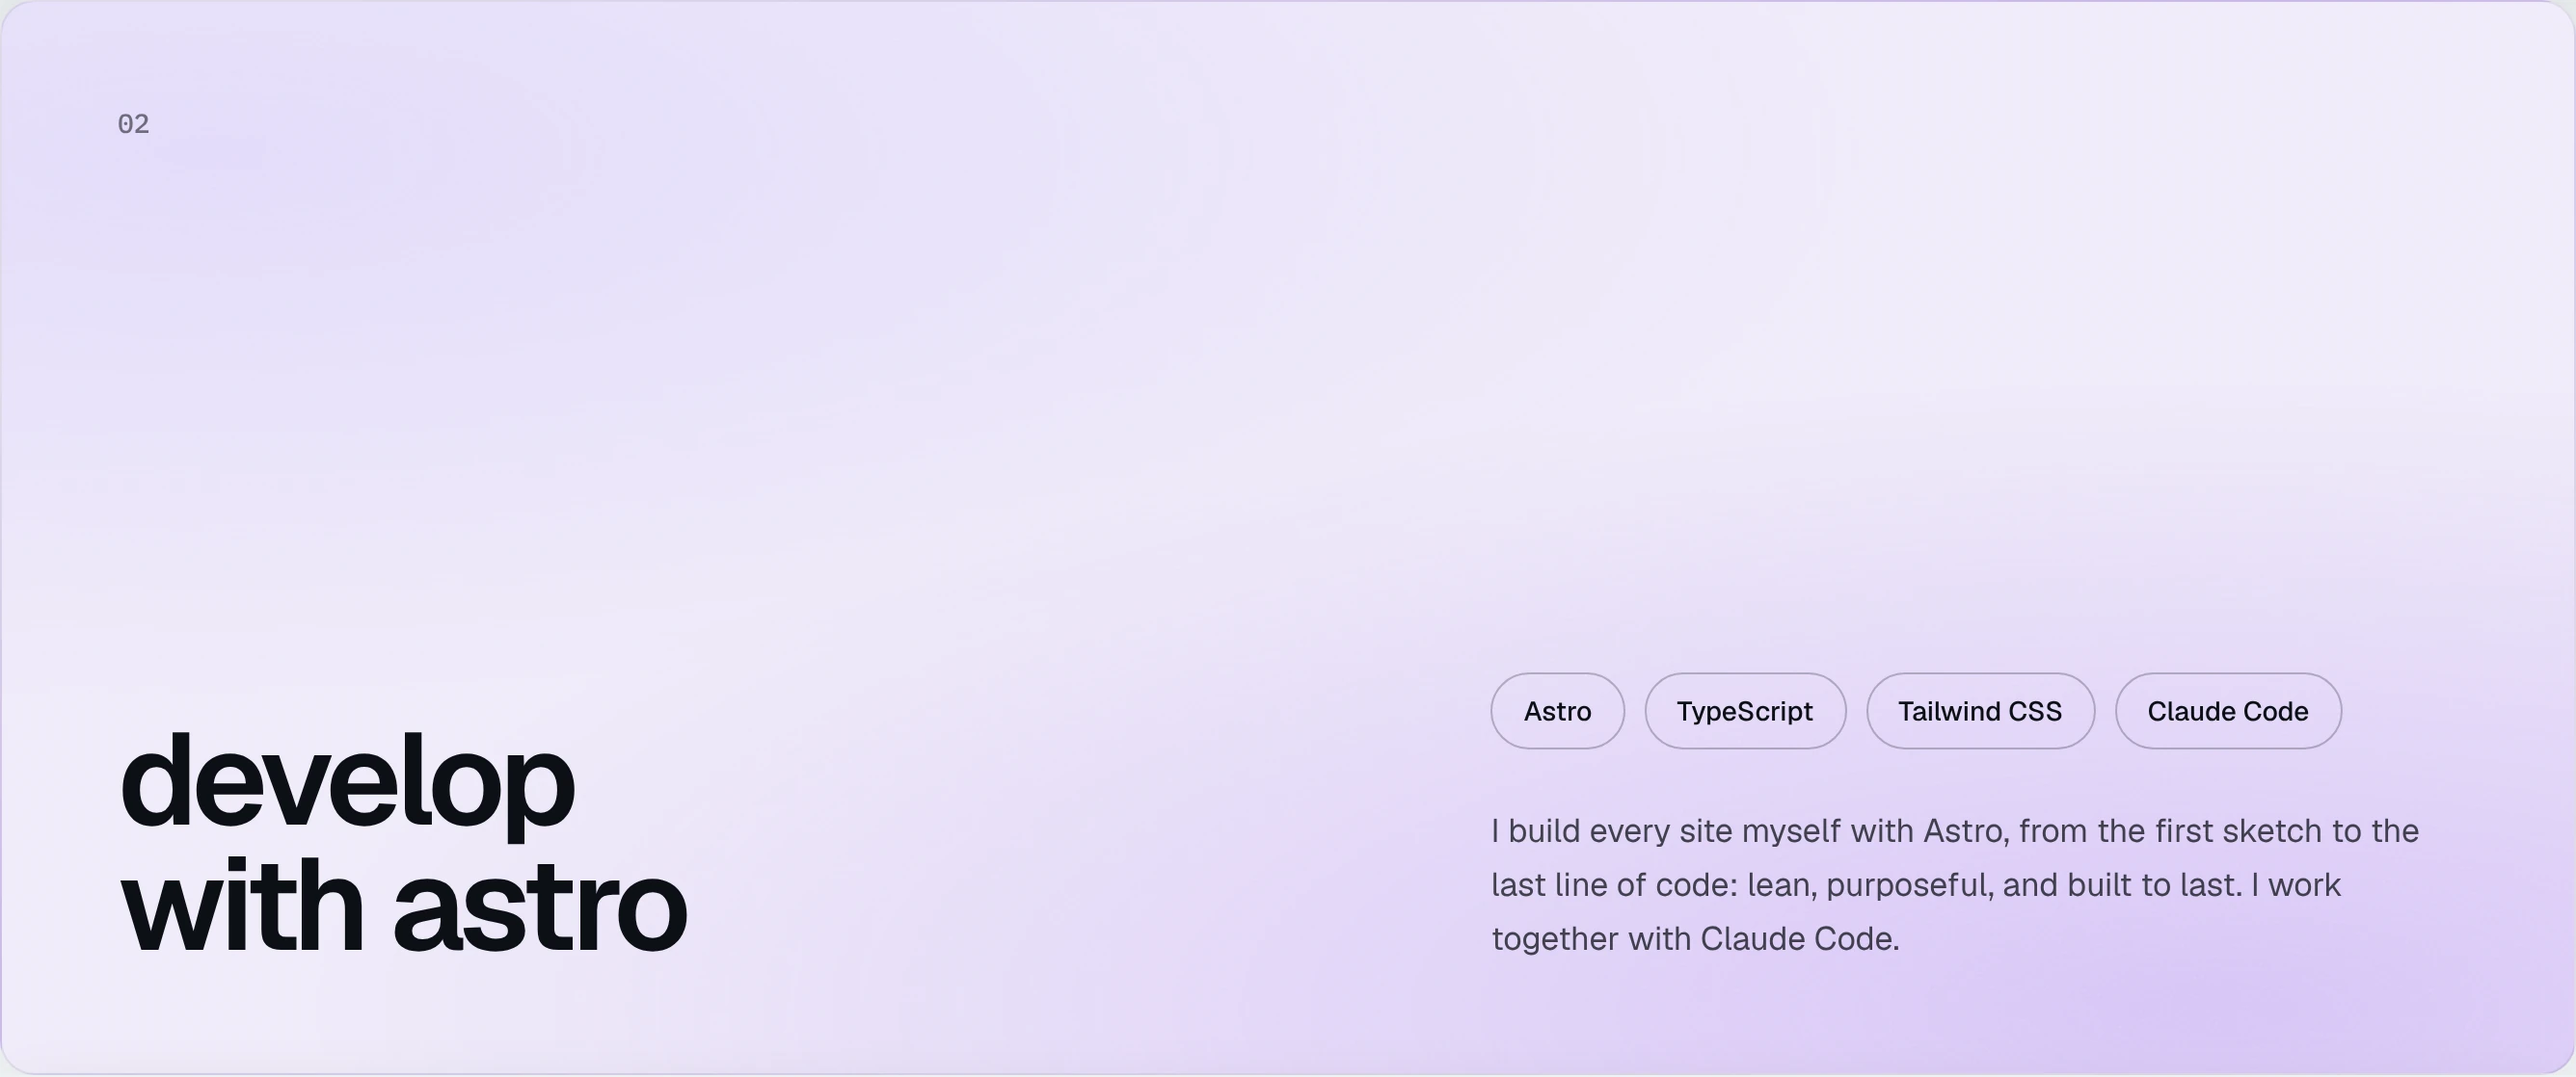
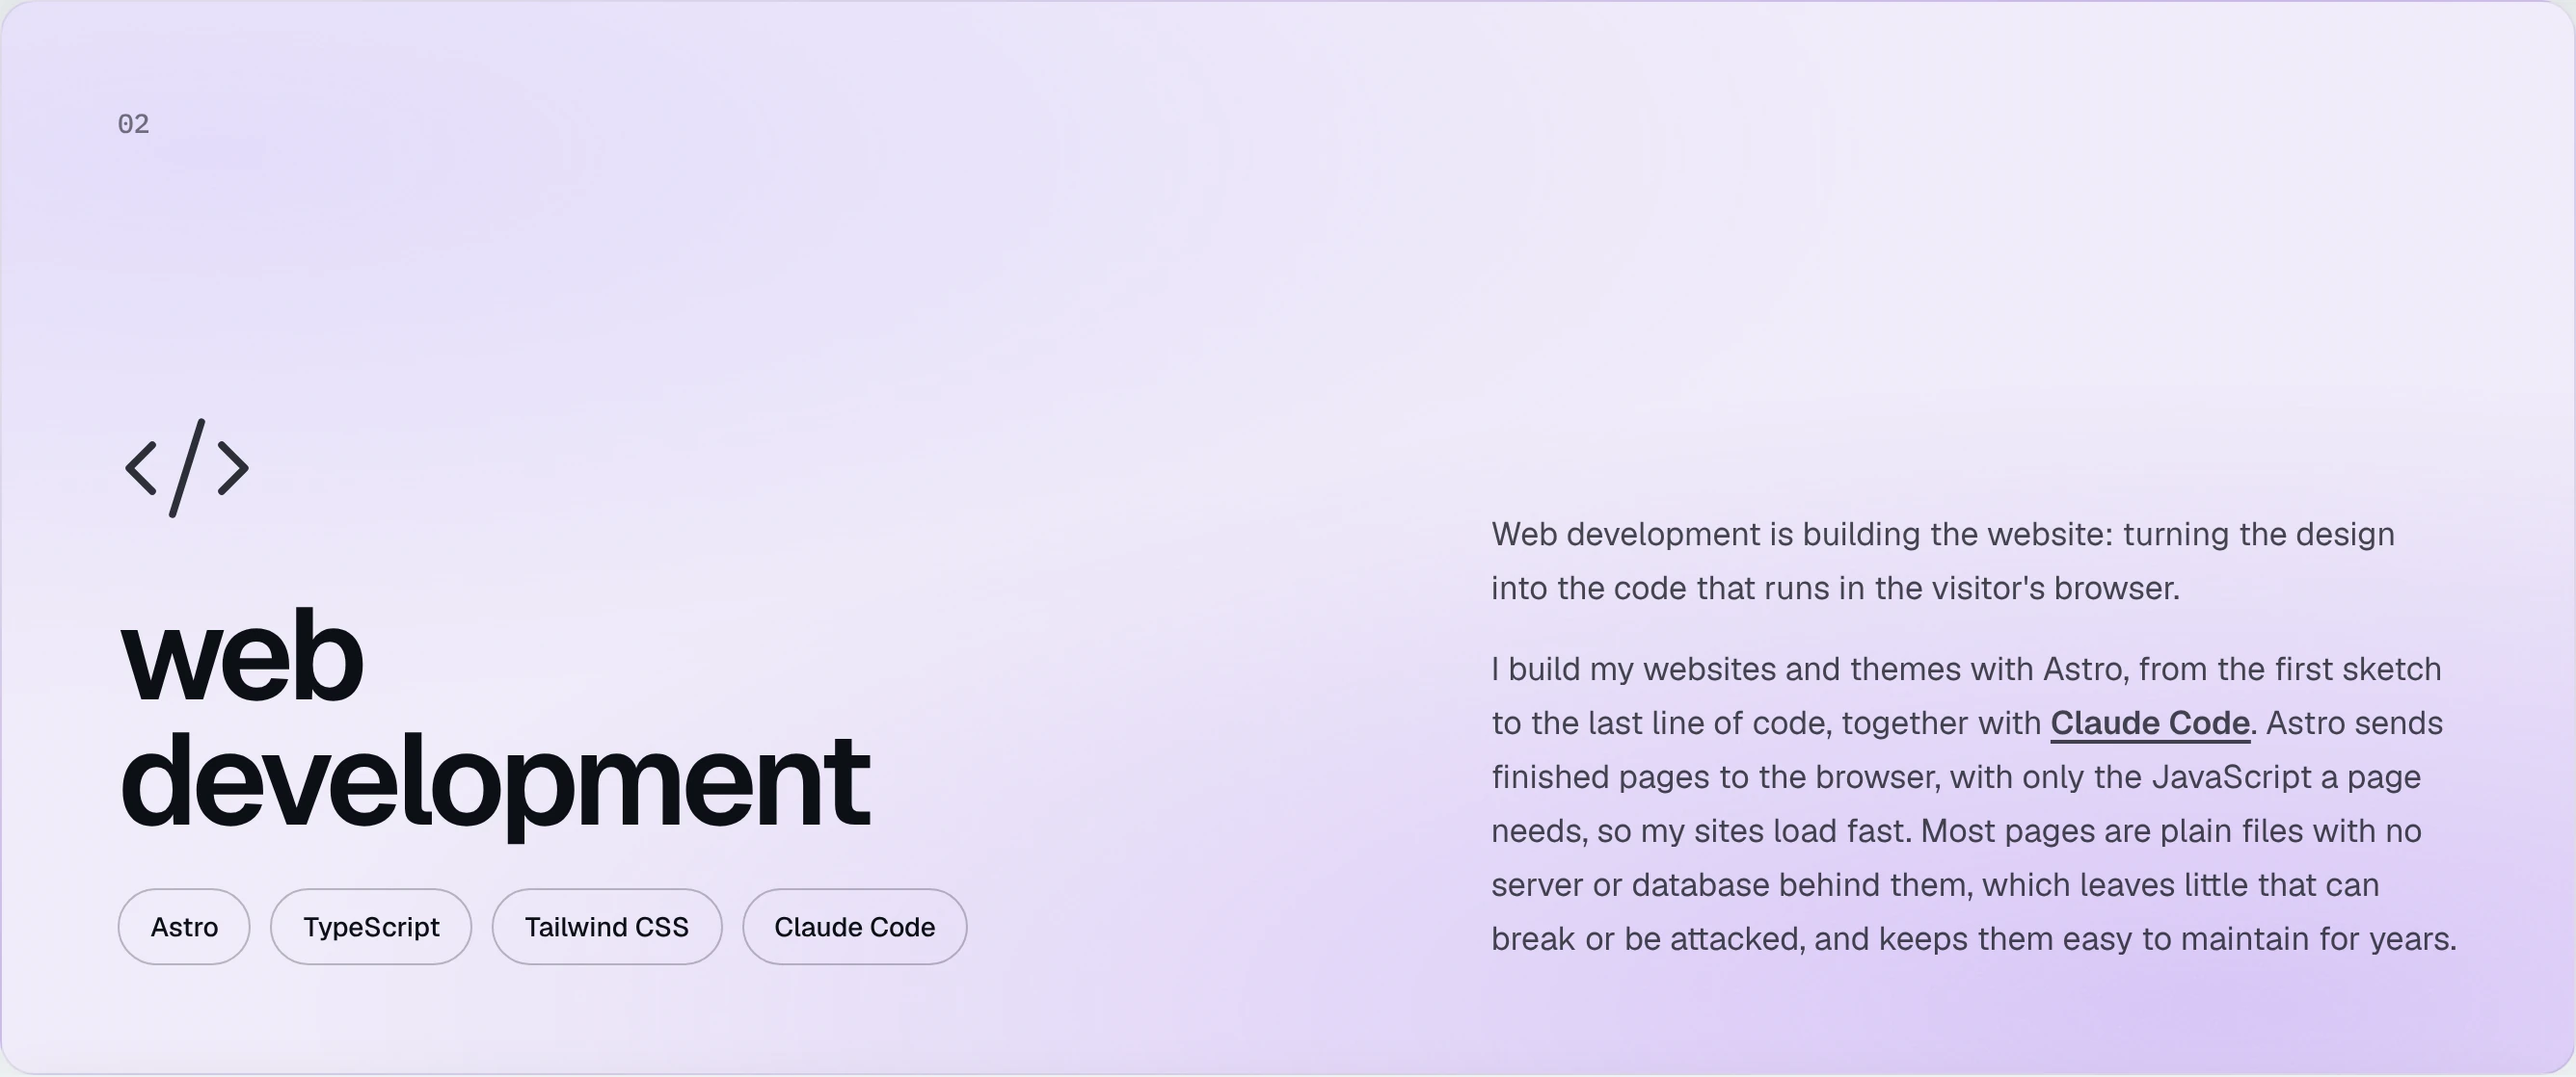
Project 1: the new Web Development card replaces Develop with Astro
Claude-Session: https://claude.ai/code/session_01QQKtzRrqmVqCvb8agowgiA

diff --git a/src/content/work/hansmartens-dev.md b/src/content/work/hansmartens-dev.md
@@ -22,7 +22,7 @@ gallery:
   - src: "../../assets/work/hansmartens-dev/sign-off.webp"
     alt: "The sign-off, Let's talk Astro, with violet buttons above the footer's violet glow"
   - src: "../../assets/work/hansmartens-dev/craft-card.webp"
-    alt: "The Develop with Astro card from the homepage"
+    alt: "The Web Development card from the homepage, with its code icon, tags and text"
 challenge: "PLACEHOLDER: why a new website."
 solution: "PLACEHOLDER: what Hans built and what matters to him about it."
 technologies: ["Astro", "TypeScript", "Tailwind CSS", "three.js", "Claude Code", "Vercel"]
